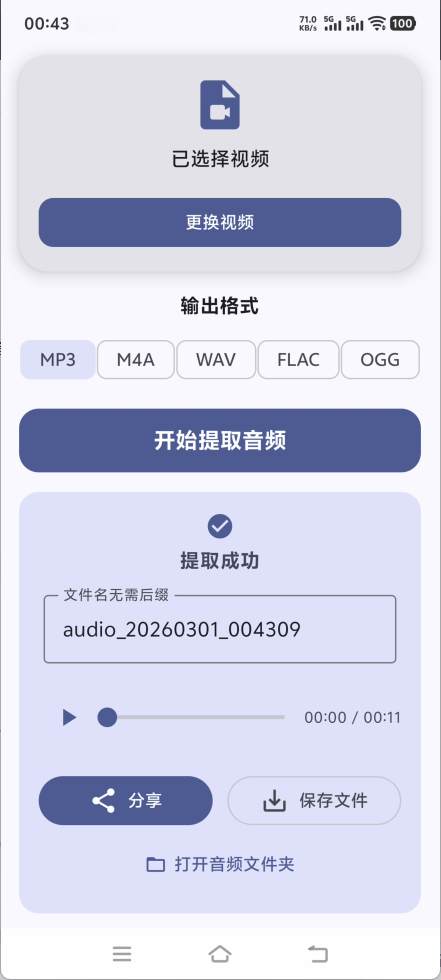
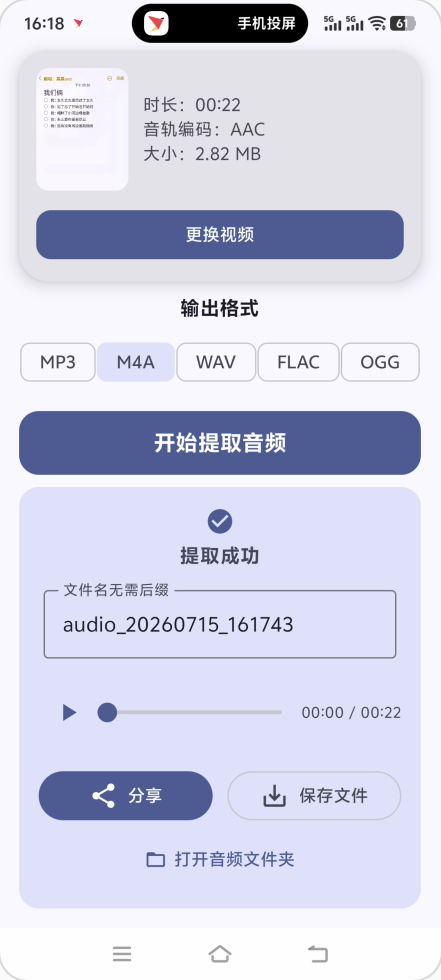
chore(build): 更新版本号至1.3
- 将版本号versionCode从3更新为4
- 将版本名称versionName从1.2更新为1.3
- 更新README和README_EN中的版本徽章为1.3
- 在功能特性中新增视频信息展示和全屏预览功能说明

diff --git a/README.md b/README.md
@@ -1,7 +1,7 @@
 # 音频提取器 [AudioPeel]
 
 [![License](https://img.shields.io/badge/License-MIT-blue.svg)](LICENSE)
-[![Version](https://img.shields.io/badge/Version-1.2-green)](https://github.com/tianxing-ovo/AudioPeel/releases/latest)
+[![Version](https://img.shields.io/badge/Version-1.3-green)](https://github.com/tianxing-ovo/AudioPeel/releases/latest)
 [![Downloads](https://img.shields.io/github/downloads/tianxing-ovo/AudioPeel/total?cacheSeconds=86400)](https://github.com/tianxing-ovo/AudioPeel/releases)
 [![Latest Downloads](https://img.shields.io/github/downloads/tianxing-ovo/AudioPeel/latest/total?cacheSeconds=86400)](https://github.com/tianxing-ovo/AudioPeel/releases/latest)
 
@@ -12,6 +12,7 @@
 ## 功能特性
 
 - **视频选择** — 选视频使用 Android Photo Picker，无需申请存储读写权限
+- **视频信息** — 选中后展示缩略图、时长、音轨编码与文件大小，点击可全屏预览
 - **多格式输出** — 支持 MP3 / M4A / WAV / FLAC / OGG
 - **智能推荐** — 自动检测内嵌音频编码并推荐格式，如 AAC→M4A，兼容时优先流复制
 - **快速提取** — SAF（Storage Access Framework，存储访问框架）直读减少拷贝，编码匹配时可直接复制音轨，并限制 FFmpeg 线程数

diff --git a/README_EN.md b/README_EN.md
@@ -1,7 +1,7 @@
 # AudioPeel
 
 [![License](https://img.shields.io/badge/License-MIT-blue.svg)](LICENSE)
-[![Version](https://img.shields.io/badge/Version-1.2-green)](https://github.com/tianxing-ovo/AudioPeel/releases/latest)
+[![Version](https://img.shields.io/badge/Version-1.3-green)](https://github.com/tianxing-ovo/AudioPeel/releases/latest)
 [![Downloads](https://img.shields.io/github/downloads/tianxing-ovo/AudioPeel/total?cacheSeconds=86400)](https://github.com/tianxing-ovo/AudioPeel/releases)
 [![Latest Downloads](https://img.shields.io/github/downloads/tianxing-ovo/AudioPeel/latest/total?cacheSeconds=86400)](https://github.com/tianxing-ovo/AudioPeel/releases/latest)
 
@@ -12,6 +12,7 @@ A lightweight Android video-to-audio tool. Export to MP3 / M4A / WAV / FLAC / OG
 ## Features
 
 - **Video picker** — Uses Android Photo Picker, so selecting a video needs no storage read/write permission
+- **Video info** — Shows thumbnail, duration, audio codec, and file size after selection; tap for fullscreen preview
 - **Multiple formats** — Supports MP3 / M4A / WAV / FLAC / OGG
 - **Smart suggestion** — Detects embedded audio codec and suggests a format such as AAC→M4A, preferring stream copy when compatible
 - **Fast extraction** — SAF (Storage Access Framework) direct read reduces copies, stream-copies the audio track when codecs match, and bounds FFmpeg thread count